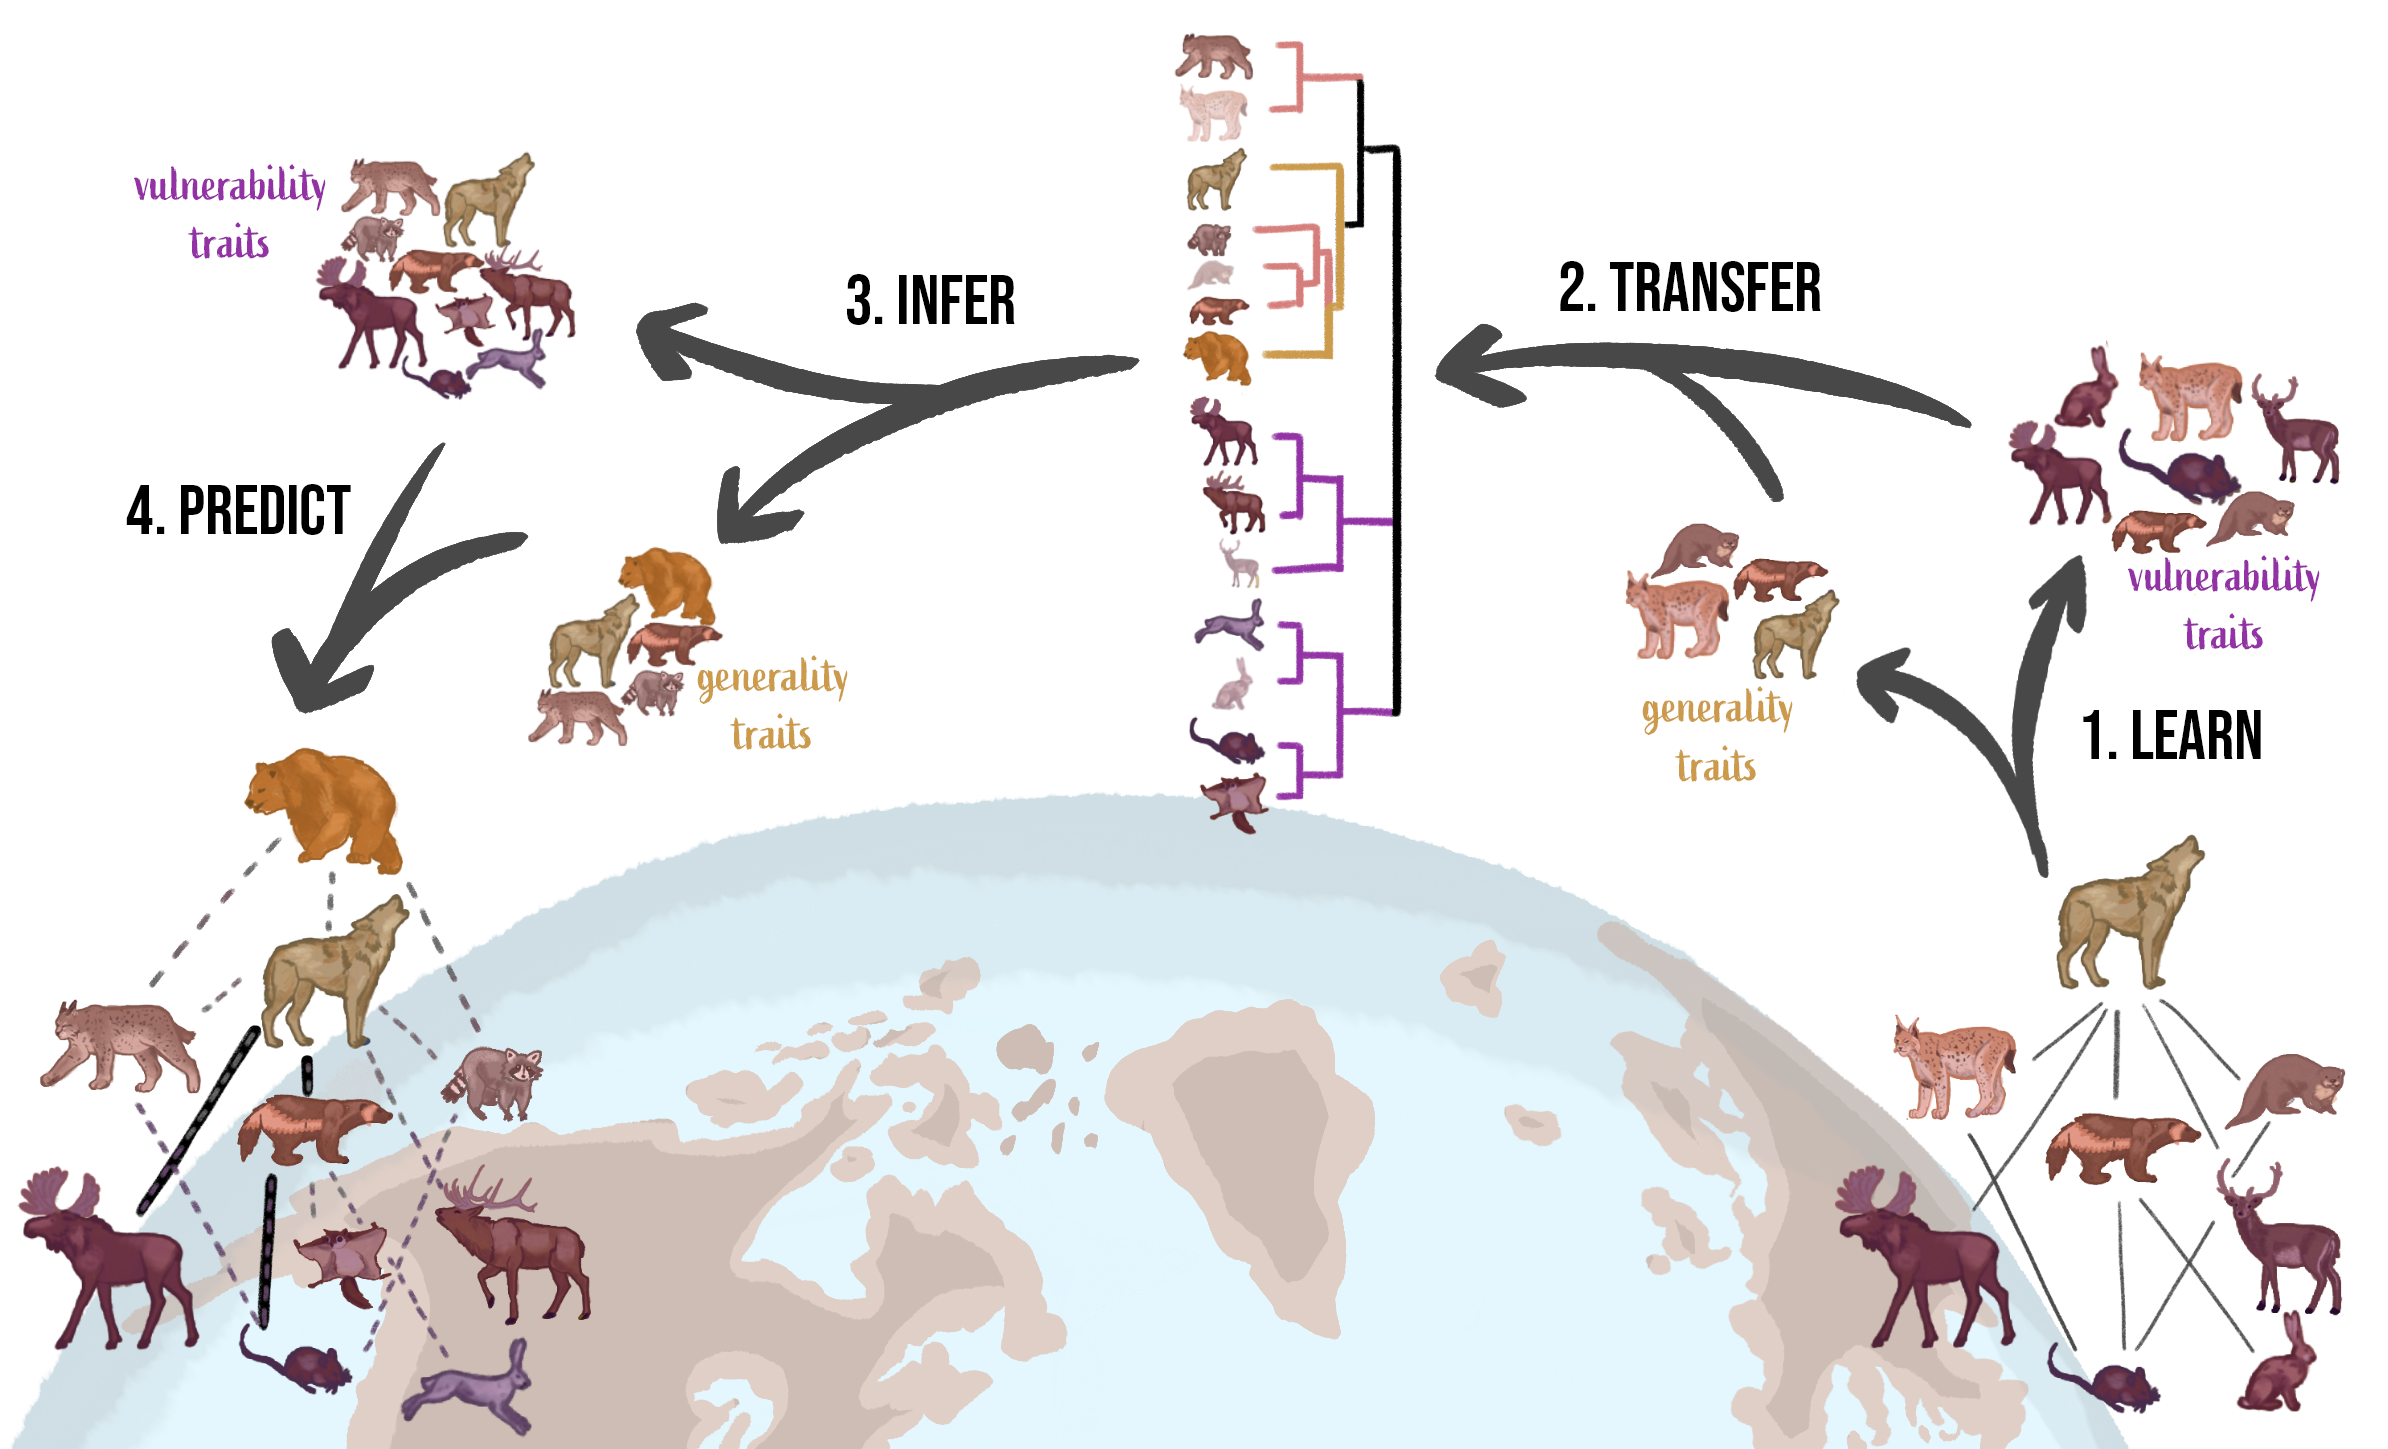
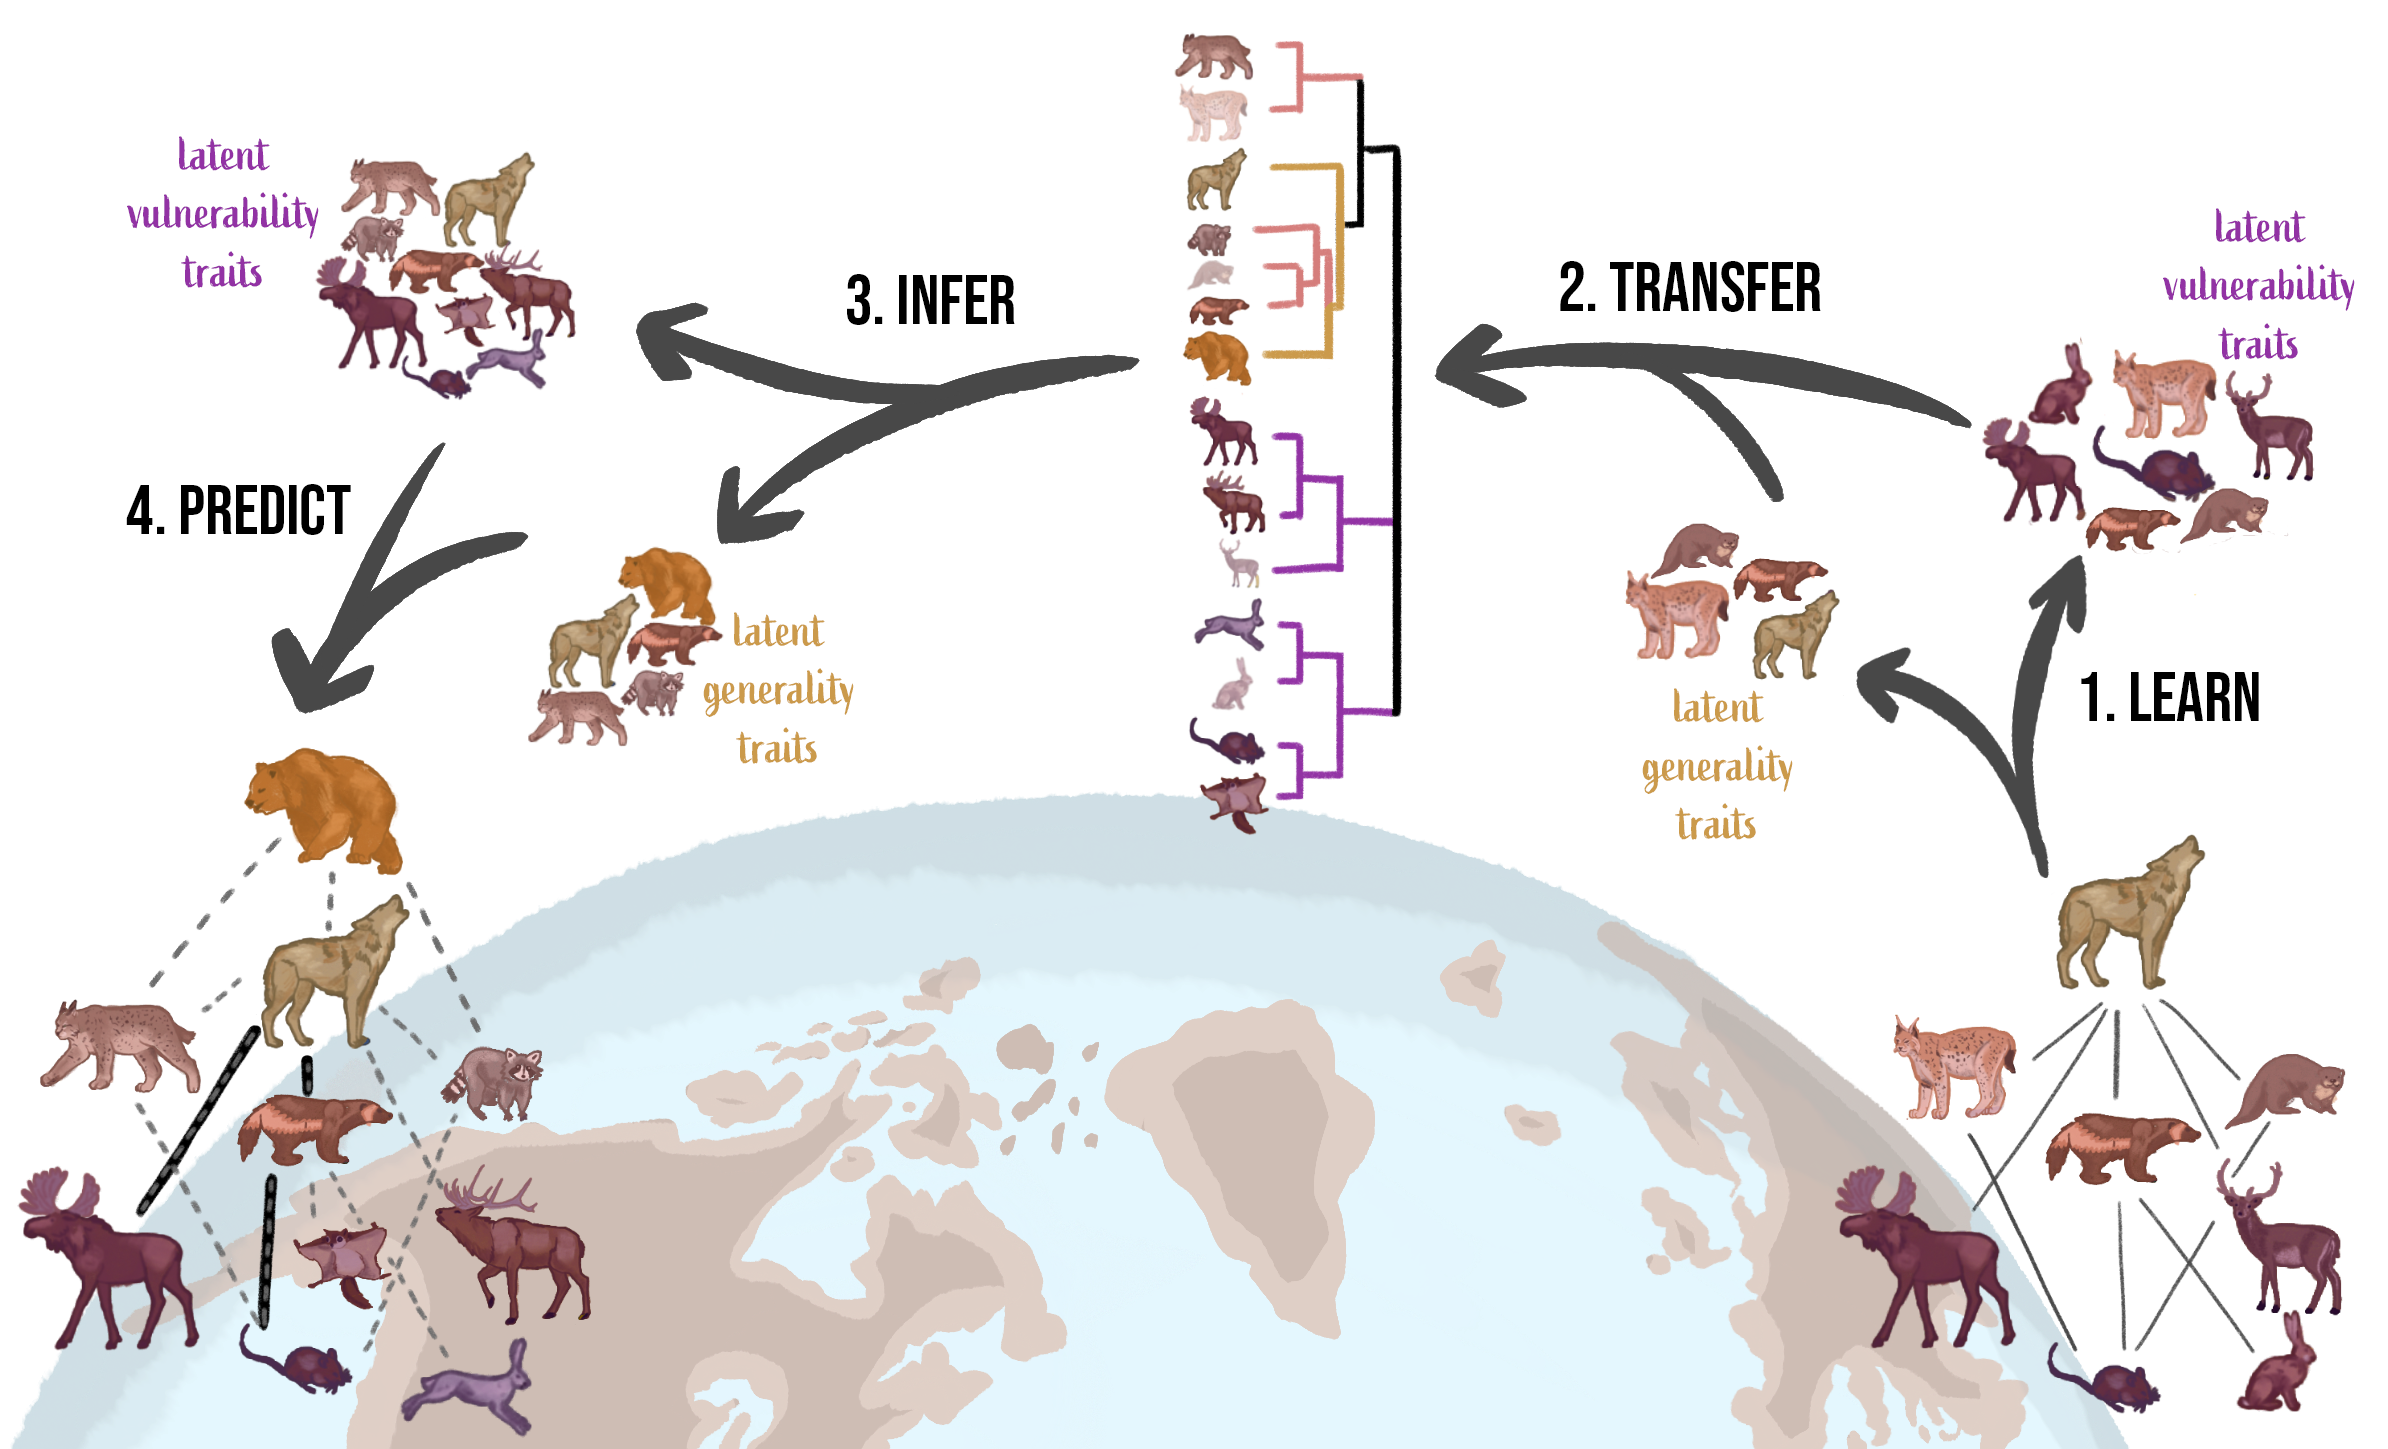
🙂 refer to latent x traits

diff --git a/README.md b/README.md
@@ -62,15 +62,16 @@ knowledge on species interactions.
 ![Overview of the phylogenetic transfer learning (and prediction) of species
 interactions networks. Starting from an initial, known, network, we learn its
 representation through a graph embedding step (here, a truncated Singular Value
-Decomposition; Step 1), yielding a series of latent traits (vulnerability traits
-representing species at the lower trophic-level and generality traits
-representing species at higher trophic-levels; *sensu* @Schoener1989FooWeb);
-second, for the destination species pool, we perform ancestral character
-estimation using a phylogeny (here, using a Brownian model for the latent
-traits; Step 2); we then sample from the reconstructed distribution of latent
-traits (Step 3) to generate a probabilistic metaweb at the destination (here,
-assuming a uniform distribution of traits), and threshold it to yield the final
-list of interactions (Step 4).](figures/figure-concept.png){#fig:concept}
+Decomposition; Step 1), yielding a series of latent traits (latent vulnerability
+traits representing species at the lower trophic-level and latent generality
+traits representing species at higher trophic-levels; *sensu*
+@Schoener1989FooWeb); second, for the destination species pool, we perform
+ancestral character estimation using a phylogeny (here, using a Brownian model
+for the latent traits; Step 2); we then sample from the reconstructed
+distribution of latent traits (Step 3) to generate a probabilistic metaweb at
+the destination (here, assuming a uniform distribution of traits), and threshold
+it to yield the final list of interactions (Step
+4).](figures/figure-concept.png){#fig:concept}
 
 Our methodology is outlined in @fig:concept, where we provide an illustration
 based on learning the embedding of a metaweb of trophic interactions for
@@ -343,20 +344,20 @@ motion model, which is a conservative approach in the absence of strong
 hypotheses about the nature of phylogenetic signal in the network decomposition
 [@Litsios2012EffPhy]. This uses the estimated feature vectors for the European
 mammals to create a state reconstruction for all species (conceptually something
-akin to a trait-based mammalian phylogeny using generality and vulnerability
-traits) and allows us to impute the missing (latent) trait data for the Canadian
-species that are not already in the European network; as we are focused on
-predicting contemporary interactions, we only retained the values for the tips
-of the tree. We assumed that all traits (*i.e.* the feature vectors for the left
-and right subspaces) were independent, which is a reasonable assumption as every
-trait/dimension added to the t-SVD has an *additive* effect to the one before
-it. Note that the @Upham2019InfMam tree itself has some uncertainty associated
-to inner nodes of the phylogeny. In this case study, we have decided to not
-propagate this uncertainty, as it would complexify the process. The Brownian
-motion algorithm returns the *average* value of the trait, and its upper and
-lower bounds. Because we do not estimate other parameters of the traits'
-distributions, we considered that every species trait is represented as a
-uniform distribution between these bounds. The choice of the uniform
+akin to a trait-based mammalian phylogeny using latent generality and
+vulnerability traits) and allows us to impute the missing (latent) trait data
+for the Canadian species that are not already in the European network; as we are
+focused on predicting contemporary interactions, we only retained the values for
+the tips of the tree. We assumed that all traits (*i.e.* the feature vectors for
+the left and right subspaces) were independent, which is a reasonable assumption
+as every trait/dimension added to the t-SVD has an *additive* effect to the one
+before it. Note that the @Upham2019InfMam tree itself has some uncertainty
+associated to inner nodes of the phylogeny. In this case study, we have decided
+to not propagate this uncertainty, as it would complexify the process. The
+Brownian motion algorithm returns the *average* value of the trait, and its
+upper and lower bounds. Because we do not estimate other parameters of the
+traits' distributions, we considered that every species trait is represented as
+a uniform distribution between these bounds. The choice of the uniform
 distribution was made because the algorithm returns a minimum and maximum point
 estimate for the value, and given this information, the uniform distribution is
 the one with maximum entropy. Had all mean parameters estimates been positive,
@@ -404,7 +405,7 @@ this information to produce one random Canadian metaweb, $N =
 (@fig:subspaces) the European and Canadian metawebs are structurally similar (as
 would be expected given the biogeographic similarities) and the two (left and
 right) subspaces are distinct *i.e.* capturing predation (generality) and prey
-(vulnerability) traits.
+(vulnerability) latent traits.
 
 Because the intervals around some trait values can be broad [in fact, probably
 broader than what they would actually be, see *e.g.* @Garland1999IntPhy], we
